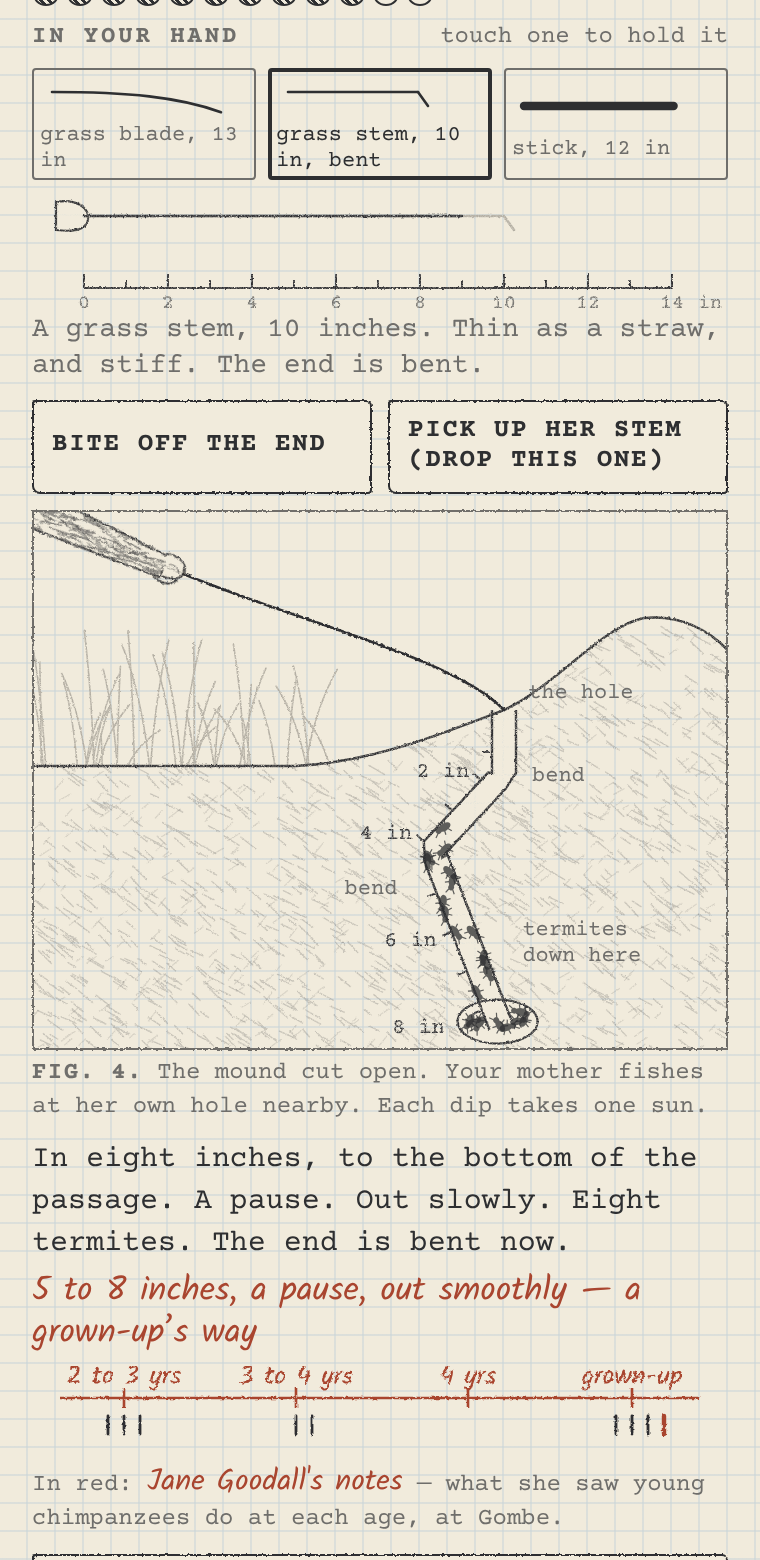
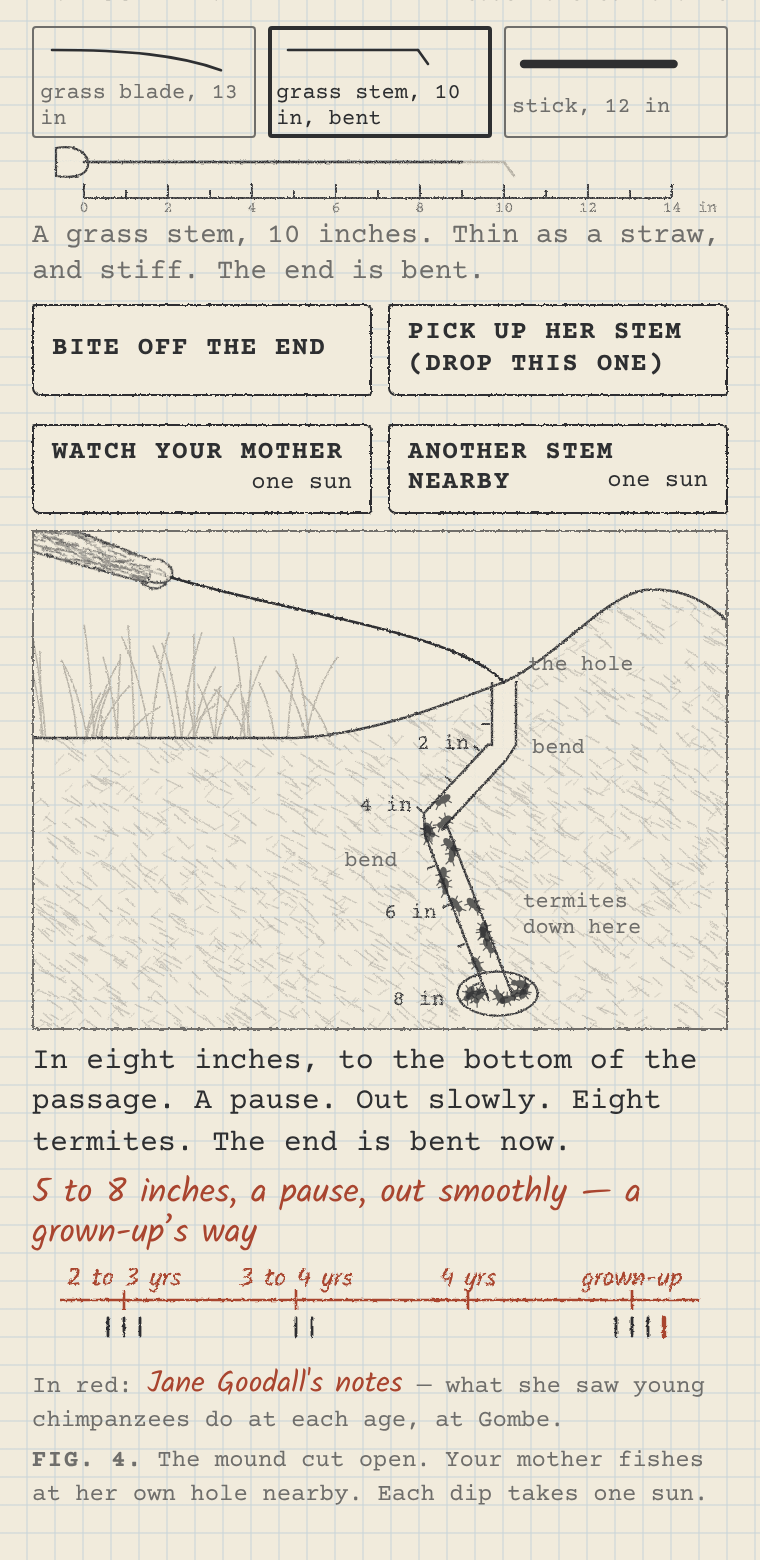
Goodall's Long Grass, revision 2: the whole loop on one screen
The play screen rebuilt so stems, drawing, result and Goodall's line are
visible together on a phone and a laptop; what stops the stem is written
on the plate where it stops; help updated; session re-run.

Claude-Session: https://claude.ai/code/session_018niUhwhtvgCJfmPN73Cyiw

diff --git a/goodall/goodalls-long-grass.html b/goodall/goodalls-long-grass.html
@@ -31,7 +31,7 @@ h1{font-weight:700;font-size:30px;line-height:1.05;letter-spacing:.06em;text-tra
 h2{font-weight:700;font-size:17px;letter-spacing:.1em;text-transform:uppercase;margin:16px 0 6px}
 h3{font-weight:700;font-size:15px;letter-spacing:.08em;text-transform:uppercase;margin:16px 0 4px}
 .aim{font-weight:700;font-size:17px;line-height:1.3;margin:12px 0;padding:8px 0;border-top:1.5px solid var(--g);border-bottom:1.5px solid var(--g)}
-.top{display:flex;justify-content:space-between;align-items:flex-start;gap:10px;padding-top:12px}
+.top{display:flex;justify-content:space-between;align-items:flex-start;gap:10px;padding-top:10px}
 .top .aimline{font-weight:700;font-size:13px;line-height:1.3}
 .q{flex:none;width:40px;height:40px;border-radius:50%;border:1.5px solid var(--g);background:var(--paper);color:var(--g);font:700 20px/37px var(--type);cursor:pointer;padding:0}
 /* buttons: paper slips, typed */
@@ -43,8 +43,9 @@ h3{font-weight:700;font-size:15px;letter-spacing:.08em;text-transform:uppercase;
 .slip:disabled{opacity:.38;cursor:default}
 .slip .cost{float:right;font-weight:400;letter-spacing:0;text-transform:none;font-size:13px}
 .slip.half{display:inline-block;width:calc(50% - 4px)}
-.row{display:flex;gap:8px;flex-wrap:wrap}.row .slip{flex:1 1 140px}
-.slip.sm{min-height:42px;padding:8px 10px;font-size:13px;margin-top:6px}
+.row{display:flex;gap:8px;flex-wrap:wrap}.row .slip{flex:1 1 125px}
+.slip.sm{min-height:40px;padding:7px 10px;font-size:13px;margin-top:6px}
+.slip.sm .cost{font-size:12px}
 #play{-webkit-user-select:none;user-select:none}
 #prep:empty{display:none}
 /* pictures */
@@ -54,7 +55,7 @@ svg.pic{display:block;width:100%;height:auto;touch-action:none;user-select:none;
 .cap{font-size:12px;color:var(--g2);margin:4px 0 0}
 .cap b{letter-spacing:.06em}
 /* status strip */
-.status{display:flex;justify-content:space-between;align-items:flex-end;gap:8px;margin:10px 0 0}
+.status{display:flex;justify-content:space-between;align-items:flex-end;gap:8px;margin:6px 0 0}
 .status .label{display:block;margin-bottom:2px}
 .suns{display:flex;gap:3px}
 .sun{width:14px;height:14px;border-radius:50%;border:1.3px solid var(--g);background:var(--paper)}
@@ -63,9 +64,10 @@ svg.pic{display:block;width:100%;height:auto;touch-action:none;user-select:none;
 .tally svg{display:inline-block;vertical-align:bottom}
 .tallyn{font-weight:700;font-size:15px;margin-left:4px}
 /* in your hand */
-.handbox{margin:8px 0 0}
-.handbox .label{display:flex;justify-content:space-between}
-.desc{font-size:14px;line-height:1.35;margin:2px 0 0;min-height:38px}
+.handbox{margin:6px 0 0}
+svg.pic.hand{margin-top:2px}
+.handbox .label{display:flex;justify-content:space-between;gap:8px}.handbox .label span:first-child{white-space:nowrap}.handbox .label span:last-child{text-align:right;font-size:11px}
+.desc{font-size:14px;line-height:1.35;margin:2px 0 0;min-height:20px}
 .slots{display:flex;gap:6px;margin:6px 0 0}
 .slot{flex:1;min-height:50px;border:0;background:transparent;position:relative;padding:4px 4px 2px;cursor:pointer;font:400 11px/1.15 var(--type);color:var(--g2);text-align:left}
 .slot::before{content:'';position:absolute;inset:0;border:1.2px dashed var(--g3);border-radius:2px}
@@ -74,7 +76,7 @@ svg.pic{display:block;width:100%;height:auto;touch-action:none;user-select:none;
 .slot.on{color:var(--g)}
 .slot svg{display:block;width:100%;height:24px}
 /* results */
-.result{margin:8px 0 0;min-height:64px}
+.result{margin:6px 0 0;min-height:60px}
 .typed{font-size:15px;line-height:1.38;margin:0}
 .red{font-family:var(--hand);color:var(--red);font-size:17px;line-height:1.2;margin:4px 0 0;min-height:20px}
 .ruler{margin:6px 0 0}
@@ -161,7 +163,7 @@ footer.sig a{color:var(--g2);text-decoration:none}
   <div class="handbox" id="phand">
     <div class="label"><span>In your hand</span><span id="pcount" style="text-transform:none;letter-spacing:0;font-weight:400"></span></div>
     <div class="slots" id="pslots"></div>
-    <svg class="pic" id="hand" viewBox="0 0 348 64"></svg>
+    <svg class="pic hand" id="hand" viewBox="0 0 348 36"></svg>
     <p class="desc small" id="pdesc"></p>
     <div class="row" id="prep">
       <button class="slip sm" id="bite" data-prev="bite">Bite off the end</button>
@@ -169,16 +171,16 @@ footer.sig a{color:var(--g2);text-decoration:none}
       <button class="slip sm" id="chew" data-prev="chew">Chew the end</button>
       <button class="slip sm" id="leaves">Pick some leaves</button>
       <button class="slip sm" id="hers">Pick up her stem</button>
+      <button class="slip sm" id="watch">Watch your mother <span class="cost">one sun</span></button>
+      <button class="slip sm" id="fetch">Another stem nearby <span class="cost">one sun</span></button>
     </div>
   </div>
-  <p class="howto hidden" id="howto"></p>
   <div id="nearbybox" class="hidden">
     <p><b>Three stems within reach of the mound.</b> Take one, or leave them.</p>
     <div class="nearby" id="nearby"></div>
     <button class="slip sm" id="leavenear">Leave them</button>
   </div>
-  <div class="frame"><svg class="pic" id="sec" viewBox="0 0 348 270"><g id="sStatic"></g><g id="sWait"></g><g id="sStem" filter="url(#pencil-line)"></g><g id="sFall"></g><g id="sBin"></g></svg><div class="hint" id="hint"></div></div>
-  <p class="cap" id="intro"></p>
+  <div class="frame"><svg class="pic" id="sec" viewBox="0 0 348 250"><g id="sStatic"></g><g id="sWait"></g><g id="sStem" filter="url(#pencil-line)"></g><g id="sFall"></g><g id="sNote"></g><g id="sBin"></g></svg><div class="hint" id="hint"></div></div>
   <div class="result" id="result">
     <p class="typed" id="typed"></p>
     <p class="red" id="red"></p>
@@ -190,10 +192,7 @@ footer.sig a{color:var(--g2);text-decoration:none}
   <div id="donebox" class="hidden"><button class="slip dark" id="lastpage">The last page →</button></div>
   <div class="ruler" id="rulerwrap"><svg class="pic" id="ruler" viewBox="0 0 348 46"></svg>
     <p class="redkey">In red: <i>Jane Goodall's notes</i> — what she saw young chimpanzees do at each age, at Gombe.</p></div>
-  <div id="acts">
-    <button class="slip" id="watch">Watch your mother <span class="cost">one sun</span></button>
-    <button class="slip" id="fetch">Pick another stem nearby <span class="cost">one sun</span></button>
-  </div>
+  <p class="cap" id="intro"></p>
 </section>
 
 <!-- ===================== THE LAST PAGE ===================== -->
@@ -224,8 +223,8 @@ footer.sig a{color:var(--g2);text-decoration:none}
   <h3>The long grass</h3>
   <p>Touch a stem to hold it up: it is drawn over a ruler of inches, drooping as much as it really droops, and the line under it says how long, how thick and how stiff it is. <b>Take it</b> puts it in one of your three slots; touch a slot to put it back. <b>Strip the leaves</b> pulls the leaves off a leafy twig. The mound is sixty yards away and you can't see its hole from here, so choose before you go: you won't come back.</p>
   <h3>The mound</h3>
-  <p>The big drawing is the mound cut open: the hole at the top, a passage that bends twice, and termites waiting below the first few inches. The small numbers along the passage count inches in. <b>Drag down</b> on the drawing to push your stem in. <b>Let go</b> to leave it there: termites bite on to whatever comes into their passage, and they need a moment. <b>Drag up</b> to pull it out: if it moves faster than they can hold on, they fall off. The stem goes in until something stops it: a stem too thick for the hole, leaves catching on the rim, a floppy stem folding at a bend, or its own length.</p>
-  <p>Each dip takes one sun from the afternoon. So does watching your mother fish at her own hole, and fetching another stem from beside the mound. When the twelve suns are gone, she moves off. A stem's end bends after a few dips; <b>Bite off the end</b> makes it an inch shorter and straight again. When your mother throws a bent stem down, <b>Pick up her stem</b> takes it. Touching any of these buttons shows you, in the hand box, what it would do before you let go.</p>
+  <p>The big drawing is the mound cut open: the hole at the top, a passage that bends twice, and termites waiting below the first few inches. The small numbers along the passage count inches in. <b>Drag down</b> on the drawing to push your stem in. <b>Let go</b> to leave it there: termites bite on to whatever comes into their passage, and they need a moment. <b>Drag up</b> to pull it out: if it moves faster than they can hold on, they fall off. The stem goes in until something stops it: a stem too thick for the hole, leaves catching on the rim, a floppy stem folding at a bend, or its own length. When that happens, a pencil note on the drawing says what stopped it, and where. If a stem is in the hole and you touch another one in your hand, the game draws the first one out for you, slowly, and gives you the other.</p>
+  <p>Each dip takes one sun from the afternoon. So does watching your mother fish at her own hole, and fetching another stem from beside the mound. When the twelve suns are gone, she moves off. A stem's end bends after a few dips; <b>Bite off the end</b> makes it an inch shorter and straight again. When your mother throws a bent stem down, <b>Pick up her stem</b> takes it. Touching any of these buttons shows you, on the little ruler under your stems, what it would do before you let go.</p>
   <p>After each dip the game says what happened (how far in, whether there was a pause, how fast it came out, how many termites). Then, in red, a note from Jane Goodall: which age of young chimpanzee fishes the way you just did, and a tick on her ruler of ages.</p>
   <div id="helphollow" class="hidden">
     <h3>The hollow</h3>
@@ -884,7 +883,7 @@ function vultureArt() {
 
 // ---------- geometry of the section (layout only: inches are the mechanism's, pixels are ours)
 const K = 21;                         // pixels per inch in the section
-const HOLE = { x: 236, y: 100 };
+const HOLE = { x: 236, y: 76 };
 const SEGS = [ // the passage centreline, in inches along it
   { s0: 0, s1: P.bend1, dx: 0, dy: 1 },
   { s0: P.bend1, s1: P.bend2, dx: -0.68, dy: 0.73 },
@@ -899,15 +898,15 @@ function passagePath(off) { // one wall of the passage, offset sideways
   const pts = []; for (let s = 0; s <= P.end + 0.6; s += 0.25) { const p = along(s); pts.push([p.x - p.dy * off, p.y + p.dx * off]); }
   return 'M ' + pts.map(p => fx(p[0]) + ' ' + fx(p[1])).join(' L ');
 }
-const HOLLOW = { x: 236, y: 100 };
+const HOLLOW = { x: 236, y: 76 };
 
 function moundStatic() {
-  const moundTop = 'M 0 128 L 132 128 C 170 126, 205 112, 236 100 C 262 88, 285 58, 306 54 C 326 52, 340 62, 348 70';
-  const earth = moundTop + ' L 348 270 L 0 270 Z';
+  const moundTop = 'M 0 104 L 132 104 C 170 102, 205 88, 236 76 C 262 64, 285 34, 306 30 C 326 28, 340 38, 348 46';
+  const earth = moundTop + ' L 348 250 L 0 250 Z';
   let s = '';
-  s += grassStrokes(41, 40, 0, 150, 128, 16, 70, G3, 0.8);
-  s += hatch(earth, [0, 50, 348, 270], { angle: 35, n: 1400, len: 7, op: 0.32, w: 0.7, seed: 42, color: G2 });
-  s += hatch(earth, [0, 50, 348, 270], { angle: 140, n: 500, len: 5, op: 0.22, w: 0.6, seed: 43, color: G2 });
+  s += grassStrokes(41, 40, 0, 150, 104, 14, 58, G3, 0.8);
+  s += hatch(earth, [0, 26, 348, 250], { angle: 35, n: 1400, len: 7, op: 0.32, w: 0.7, seed: 42, color: G2 });
+  s += hatch(earth, [0, 26, 348, 250], { angle: 140, n: 500, len: 5, op: 0.22, w: 0.6, seed: 43, color: G2 });
   // the passage: cut open, paper inside, two pencil walls
   const pts = []; for (let s2 = 0; s2 <= P.end + 0.6; s2 += 0.25) { const p = along(s2); pts.push(p); }
   const w = 6, left = pts.map(p => [p.x - p.dy * w, p.y + p.dx * w]), right = pts.map(p => [p.x + p.dy * w, p.y - p.dx * w]);
@@ -981,9 +980,9 @@ function stemInSection(view) {
   // outside: from the hole up to the hand, bowing if pushed against a block
   const outLen = Math.max(0.3, (st.type === 'leaves' ? 0.6 : st.len - C.GRIP - view.d)) * K;
   const ex = Math.min(view.excess || 0, 1.5) * K * 1.6;
-  const dir = { x: -0.92, y: -0.39 };
+  const dir = { x: -0.955, y: -0.3 };
   const top = hollow ? HOLLOW : HOLE;
-  const chord = Math.max(10, outLen - ex);
+  const chord = Math.max(10, Math.min(200, outLen) - ex);
   const hx = top.x + dir.x * chord, hy = top.y + dir.y * chord;
   const bulge = ex * [1.1, 0.5, 0.12][st.stiff == null ? 2 : st.stiff];
   const sag = [0.16, 0.06, 0][st.stiff == null ? 2 : st.stiff] * chord;
@@ -1032,13 +1031,14 @@ function stemProfile(st, x0, y0, px, color, op) {
   return s;
 }
 function drawHandBox(svg, st, prev) {
-  const px = 21, x0 = 26, y0 = 18;
+  const tall = svg.id === 'ghand';            // the long grass keeps the full picture; the mound a compact one
+  const px = 21, x0 = 26, y0 = tall ? 18 : 10, ry = tall ? 54 : 28, ty = tall ? 64 : 35;
   let s = `<g stroke="${G}" stroke-width="1">`;
-  s += `<line x1="${x0}" y1="54" x2="${x0 + 14 * px}" y2="54"/>`;
-  for (let i = 0; i <= 14; i++) s += `<line x1="${x0 + i * px}" y1="54" x2="${x0 + i * px}" y2="${i % 2 ? 50 : 47}"/>`;
+  s += `<line x1="${x0}" y1="${ry}" x2="${x0 + 14 * px}" y2="${ry}"/>`;
+  for (let i = 0; i <= 14; i++) s += `<line x1="${x0 + i * px}" y1="${ry}" x2="${x0 + i * px}" y2="${i % 2 ? ry - 4 : ry - 7}"/>`;
   s += '</g>';
-  for (let i = 0; i <= 14; i += 2) s += `<text x="${x0 + i * px}" y="64" font-family="Courier Prime,monospace" font-size="10" fill="${G2}" text-anchor="middle">${i}</text>`;
-  s += `<text x="${x0 + 14 * px + 13}" y="64" font-family="Courier Prime,monospace" font-size="10" fill="${G2}">in</text>`;
+  for (let i = 0; i <= 14; i += 2) s += `<text x="${x0 + i * px}" y="${ty}" font-family="Courier Prime,monospace" font-size="${tall ? 10 : 8}" fill="${G2}" text-anchor="middle">${i}</text>`;
+  s += `<text x="${x0 + 14 * px + 13}" y="${ty}" font-family="Courier Prime,monospace" font-size="${tall ? 10 : 8}" fill="${G2}">in</text>`;
   if (st && st.type !== 'hand' && st.type !== 'leaves') s += `<path d="M ${x0 - 14} ${y0 - 7} C ${x0 - 4} ${y0 - 9}, ${x0 + 3} ${y0 - 4}, ${x0 + 2} ${y0 + 2} C ${x0 + 1} ${y0 + 7}, ${x0 - 6} ${y0 + 8}, ${x0 - 14} ${y0 + 7} Z" fill="${PAPER}" stroke="${G}" stroke-width="1.1"/>`;
   if (prev) { s += stemProfile(st, x0, y0, px, G3, 1); s += stemProfile(prev, x0, y0, px, G, 1); }
   else s += stemProfile(st, x0, y0, px, G, 1);
@@ -1128,10 +1128,10 @@ function drawRuler(svg, dips, h, fresh) {
 function sectionStatic() {
   if (play.mode === 'mound') return `<g filter="url(#pencil)">${moundStatic()}</g>${moundLabels()}`;
   // the hollow: a tree trunk cut open, rainwater inside
-  const trunk = 'M 150 270 C 156 200, 162 120, 170 30 L 300 30 C 306 120, 312 200, 318 270 Z';
+  const trunk = 'M 150 250 C 156 185, 162 110, 170 18 L 300 18 C 306 110, 312 185, 318 250 Z';
   const cav = `M ${HOLLOW.x - 9} ${HOLLOW.y} C ${HOLLOW.x - 14} ${HOLLOW.y + 30}, ${HOLLOW.x - 20} ${HOLLOW.y + 80}, ${HOLLOW.x - 16} ${HOLLOW.y + C.HOLLOW.bottom * K + 6} L ${HOLLOW.x + 16} ${HOLLOW.y + C.HOLLOW.bottom * K + 6} C ${HOLLOW.x + 20} ${HOLLOW.y + 80}, ${HOLLOW.x + 14} ${HOLLOW.y + 30}, ${HOLLOW.x + 9} ${HOLLOW.y} Z`;
-  let s = grassStrokes(51, 50, 0, 348, 270, 16, 80, G3, 0.8);
-  s += `<path d="${trunk}" fill="${PAPER}"/>` + hatch(trunk, [150, 30, 320, 270], { angle: 88, n: 900, len: 12, op: 0.35, w: 0.8, seed: 52, color: G2 });
+  let s = grassStrokes(51, 50, 0, 348, 250, 16, 80, G3, 0.8);
+  s += `<path d="${trunk}" fill="${PAPER}"/>` + hatch(trunk, [150, 18, 320, 250], { angle: 88, n: 900, len: 12, op: 0.35, w: 0.8, seed: 52, color: G2 });
   s += `<path d="${trunk}" fill="none" stroke="${G}" stroke-width="1.3"/>`;
   s += `<path d="${cav}" fill="${PAPER}" stroke="${G}" stroke-width="1.2"/>`;
   const wy = HOLLOW.y + C.HOLLOW.water * K;
@@ -1139,7 +1139,7 @@ function sectionStatic() {
   s += `<clipPath id="cavc"><path d="${cav}"/></clipPath><g clip-path="url(#cavc)" stroke="${G2}" stroke-width="0.9" opacity="0.8">${water}</g><line x1="${HOLLOW.x - 16}" y1="${wy}" x2="${HOLLOW.x + 16}" y2="${wy}" stroke="${G}" stroke-width="1.3"/>`;
   let lab = `<g font-family="Courier Prime,monospace" font-size="11" fill="${G}" text-anchor="end"><text x="${HOLLOW.x - 24}" y="${HOLLOW.y + 22}">the hollow</text><text x="${HOLLOW.x - 24}" y="${fx(wy + 14)}">rainwater</text></g>`;
   // the gauge of sips
-  const gx = 326, gy0 = 60, gh = 180, n = C.HOLLOW.enough, filled = Math.min(n, g.hollow.sips);
+  const gx = 326, gy0 = 44, gh = 170, n = C.HOLLOW.enough, filled = Math.min(n, g.hollow.sips);
   let gauge = `<rect x="${gx - 8}" y="${gy0}" width="16" height="${gh}" rx="3" fill="${PAPER}" stroke="${G}" stroke-width="1.2"/>`;
   const fh = gh * filled / n; if (fh > 0) { gauge += `<clipPath id="gaugec"><rect x="${gx - 7}" y="${gy0 + gh - fh}" width="14" height="${fh}"/></clipPath><g clip-path="url(#gaugec)" stroke="${G}" stroke-width="1">`; for (let yy = gy0; yy < gy0 + gh + 14; yy += 3) gauge += `<line x1="${gx - 8}" y1="${yy}" x2="${gx + 8}" y2="${yy - 6}"/>`; gauge += '</g>'; }
   for (let k = 1; k < n; k++) gauge += `<line x1="${gx - 8}" y1="${fx(gy0 + gh - gh * k / n)}" x2="${gx - 4}" y2="${fx(gy0 + gh - gh * k / n)}" stroke="${G2}" stroke-width="0.8"/>`;
@@ -1154,6 +1154,7 @@ function drawSection() {
   if (w !== waitOn) { $('#sWait').innerHTML = w ? WAIT : ''; waitOn = w; }
   $('#sStem').innerHTML = stemInSection(v);
   $('#sFall').innerHTML = play.falling || '';
+  $('#sNote').innerHTML = g.dip ? (play.note || '') : '';
   $('#sBin').innerHTML = play.watching ? play.binoc : '';
 }
 function renderPlay() {
@@ -1197,9 +1198,8 @@ function renderPlay() {
   $('#hers').classList.toggle('hidden', !mound || !g.mother.dropped);
   $('#hers').disabled = busy;
   $('#hers').textContent = g.carried.length >= C.CARRY ? 'Pick up her stem (drop this one)' : 'Pick up her stem';
-  $('#watch').classList.toggle('hidden', !mound); $('#fetch').classList.toggle('hidden', !mound);
+  $('#watch').classList.toggle('hidden', !mound || leaving || ended); $('#fetch').classList.toggle('hidden', !mound || leaving || ended);
   $('#watch').disabled = busy || g.phase !== 'mound'; $('#fetch').disabled = busy || g.phase !== 'mound' || !!g.nearby;
-  $('#acts').classList.toggle('hidden', leaving || ended || !!g.nearby || !mound);
   $('#prep').classList.toggle('hidden', leaving || ended);
   $('#leavingbox').classList.toggle('hidden', !leaving || !!g.nearby || play.busy);
   $('#donebox').classList.toggle('hidden', !ended || play.busy);
@@ -1207,11 +1207,7 @@ function renderPlay() {
   $('#nearbybox').classList.toggle('hidden', !g.nearby);
   if (g.nearby) renderNearby();
   const firstHere = play.dipsHere === 0 && !leaving && !ended && !g.nearby;
-  $('#hint').textContent = firstHere && !g.dip ? (mound ? 'drag down: push in  ·  let go: leave it  ·  drag up: pull out' : 'drag down: push in  ·  drag up: pull out and suck') : '';
-  $('#howto').classList.toggle('hidden', !firstHere);
-  $('#howto').innerHTML = mound
-    ? 'To fish, press on the drawing below and drag your stem down into the hole. Let go and it stays there; drag up and it comes out. Whatever is on the stem when it comes out, you eat. There is no button for it: the drag is the fishing.'
-    : 'Same hand: drag your stem down into the hollow, and drag it up to suck the end.';
+  $('#hint').textContent = firstHere && !g.dip ? (mound ? 'press here and drag down: the stem goes in  ·  let go: it stays  ·  drag up: it comes out' : 'press here and drag down: the stem goes in  ·  drag up: it comes out, and you suck it') : '';
 }
 function renderNearby() {
   const box = $('#nearby'); box.innerHTML = '';
@@ -1235,8 +1231,8 @@ function onDown(e) {
   const st = M.inHand(g); if (!st) return;
   const ds = M.startDip(g); if (!ds) return;
   e.preventDefault(); $('#sec').setPointerCapture && $('#sec').setPointerCapture(e.pointerId);
-  play.drag = { y0: e.clientY, d0: ds.d, scale: svgScale() };
-  play.target = ds.d; $('#hint').textContent = ''; $('#pcount').textContent = 'touch another: this one comes out first';
+  play.drag = { y0: e.clientY, d0: ds.d, scale: svgScale() }; if (ds.d === 0) play.note = '';
+  play.target = ds.d; $('#hint').textContent = ''; $('#pcount').textContent = 'touch another: this one comes out';
   if (!play.anim) { play.last = performance.now(); play.anim = requestAnimationFrame(tick); }
 }
 const FOLD_MAX = 1.5; // inches of push the finger may run past a block (the bow drawn above the hole); beyond, the drag re-anchors
@@ -1280,9 +1276,26 @@ function blockedNote(ds) {
   const why = ds.lim.reason;
   const t = { thick: 'It won\'t go in: too thick for the hole.', leaves: 'The leaves catch on the rim.', fold1: 'It folds at the first bend.', bent: 'The bent end folds at the first bend.', fold2: 'It folds at the second bend.', length: 'That\'s as far as this stem reaches.', end: 'The bottom of the passage.', reach: 'As far as it goes.' }[why] || '';
   if (t) { $('#typed').textContent = t; $('#red').textContent = ''; }
+  play.note = plateNote(ds);
+}
+function plateNote(ds) { // what stopped the stem, written on the plate where it stopped
+  const why = ds.lim.reason, hollow = ds.place === 'hollow';
+  const words = hollow
+    ? { reach: ds.stem.type === 'hand' ? ['your fingers reach', 'this far, no further'] : ['as far as it goes'], length: ['as far as this', 'stem reaches'] }[why]
+    : { thick: ['too thick: it will', 'not go in the hole'], leaves: ['the leaves catch', 'on the rim'], fold1: ['too floppy:', 'it folds here'], bent: ['the bent end', 'folds here'], fold2: ['too springy:', 'it folds here'], length: ['as far as this', 'stem reaches'] }[why];
+  if (!words) return '';
+  const p = hollow ? { x: HOLLOW.x, y: HOLLOW.y + ds.lim.depth * K } : along(ds.lim.depth);
+  const x = hollow ? 120 : 340, anchor = hollow ? 'middle' : 'end', y0 = hollow ? 150 : 30;
+  const w = Math.max(...words.map(t => t.length)) * 6.4 + 10, bx = hollow ? x - w / 2 : x - w + 4;
+  let s = `<rect x="${fx(bx)}" y="${y0 - 11}" width="${fx(w)}" height="${words.length * 13 + 6}" fill="${PAPER}" opacity="0.92"/>`;
+  words.forEach((t, i) => { s += `<text x="${x}" y="${y0 + i * 13}" font-family="Courier Prime,monospace" font-size="11" font-weight="700" fill="${G}" text-anchor="${anchor}">${t}</text>`; });
+  const lx = hollow ? x : bx, ly = hollow ? y0 + words.length * 13 - 6 : y0 + 2;
+  s += `<path d="M ${fx(lx)} ${fx(ly)} L ${fx(p.x + (hollow ? -10 : 9))} ${fx(p.y)}" stroke="${G}" stroke-width="0.9" fill="none" stroke-dasharray="3 2"/>`;
+  s += `<circle cx="${fx(p.x + (hollow ? -10 : 9))}" cy="${fx(p.y)}" r="1.8" fill="${G}"/>`;
+  return `<g filter="url(#pencil-line)">${s}</g>`;
 }
 function finishDip(res) {
-  play.busy = true; play.dipsHere = (play.dipsHere || 0) + 1; play.view = { stem: M.inHand(g), d: 0, excess: 0, on: res.place === 'mound' ? Array.from({ length: res.eaten }, (_, i) => 0.5 + i * 0.32) : [], place: res.place };
+  play.busy = true; play.dipsHere = (play.dipsHere || 0) + 1; play.note = ''; play.view = { stem: M.inHand(g), d: 0, excess: 0, on: res.place === 'mound' ? Array.from({ length: res.eaten }, (_, i) => 0.5 + i * 0.32) : [], place: res.place };
   drawSection();
   if (res.place === 'mound') {
     const n = res.eaten; let k = 0; const before = g.eaten - n;
@@ -1336,7 +1349,7 @@ function watchMother() {
   play.view = { stem: mStem, d: 0, excess: 0, on: [], place: 'mound' }; drawSection(); setTimeout(frame, 500);
 }
 function binocMask() { // the binocular view laid over the section while you watch her
-  const w = 348, h = 270, r = 112, cx1 = 124, cx2 = 236, cy = 150;
+  const w = 348, h = 250, r = 104, cx1 = 124, cx2 = 236, cy = 128;
   return `<defs><mask id="bm"><rect width="${w}" height="${h}" fill="white"/><circle cx="${cx1}" cy="${cy}" r="${r}" fill="black"/><circle cx="${cx2}" cy="${cy}" r="${r}" fill="black"/></mask></defs>` +
     `<rect width="${w}" height="${h}" fill="${PAPER}" mask="url(#bm)" opacity="0.92"/><g fill="none" stroke="${G}" stroke-width="2" filter="url(#pencil-line)"><circle cx="${cx1}" cy="${cy}" r="${r}"/><circle cx="${cx2}" cy="${cy}" r="${r}"/></g>` +
     `<text x="10" y="18" font-family="Courier Prime,monospace" font-size="12" font-weight="700" fill="${G}">YOUR MOTHER'S HOLE</text>`;
@@ -1357,7 +1370,7 @@ function enterMound() {
   $('#sunlab').textContent = 'The afternoon'; $('#tallylab').textContent = 'Termites eaten';
   $('#intro').innerHTML = '<b>FIG. 4.</b> The mound cut open. Your mother fishes at her own hole nearby. Each dip takes one sun.';
   $('#rulerwrap').classList.remove('hidden');
-  setResult('Termites bite on to whatever comes into their passage. Drag your stem into the hole, give them a moment, and draw it out: what is on it, you eat.', '');
+  setResult('Termites bite on to whatever comes into their passage. Press on the drawing, drag your stem down into the hole, give them a moment, and drag it up. What comes up on the stem, you eat: there is no button for it.', '');
   show('play'); renderPlay();
 }
 function enterHollow() {
